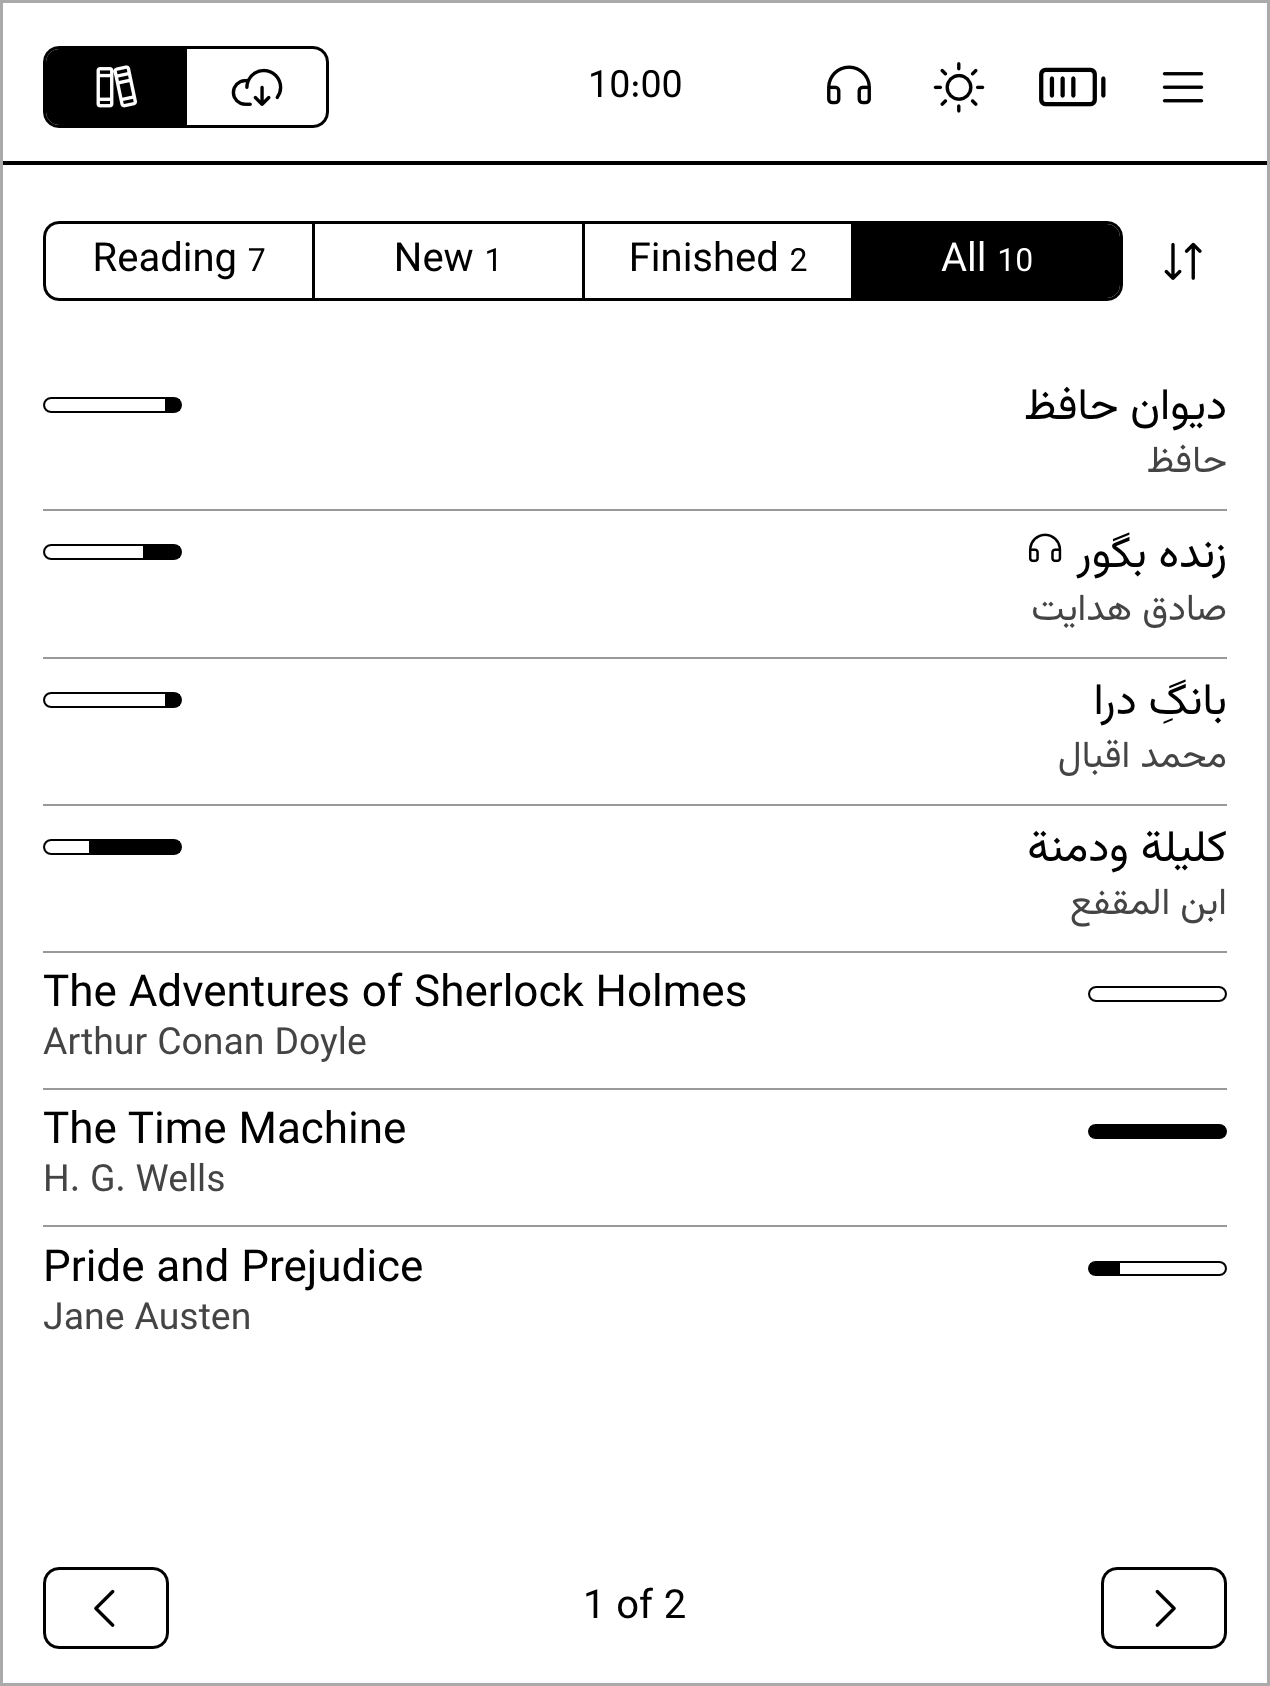
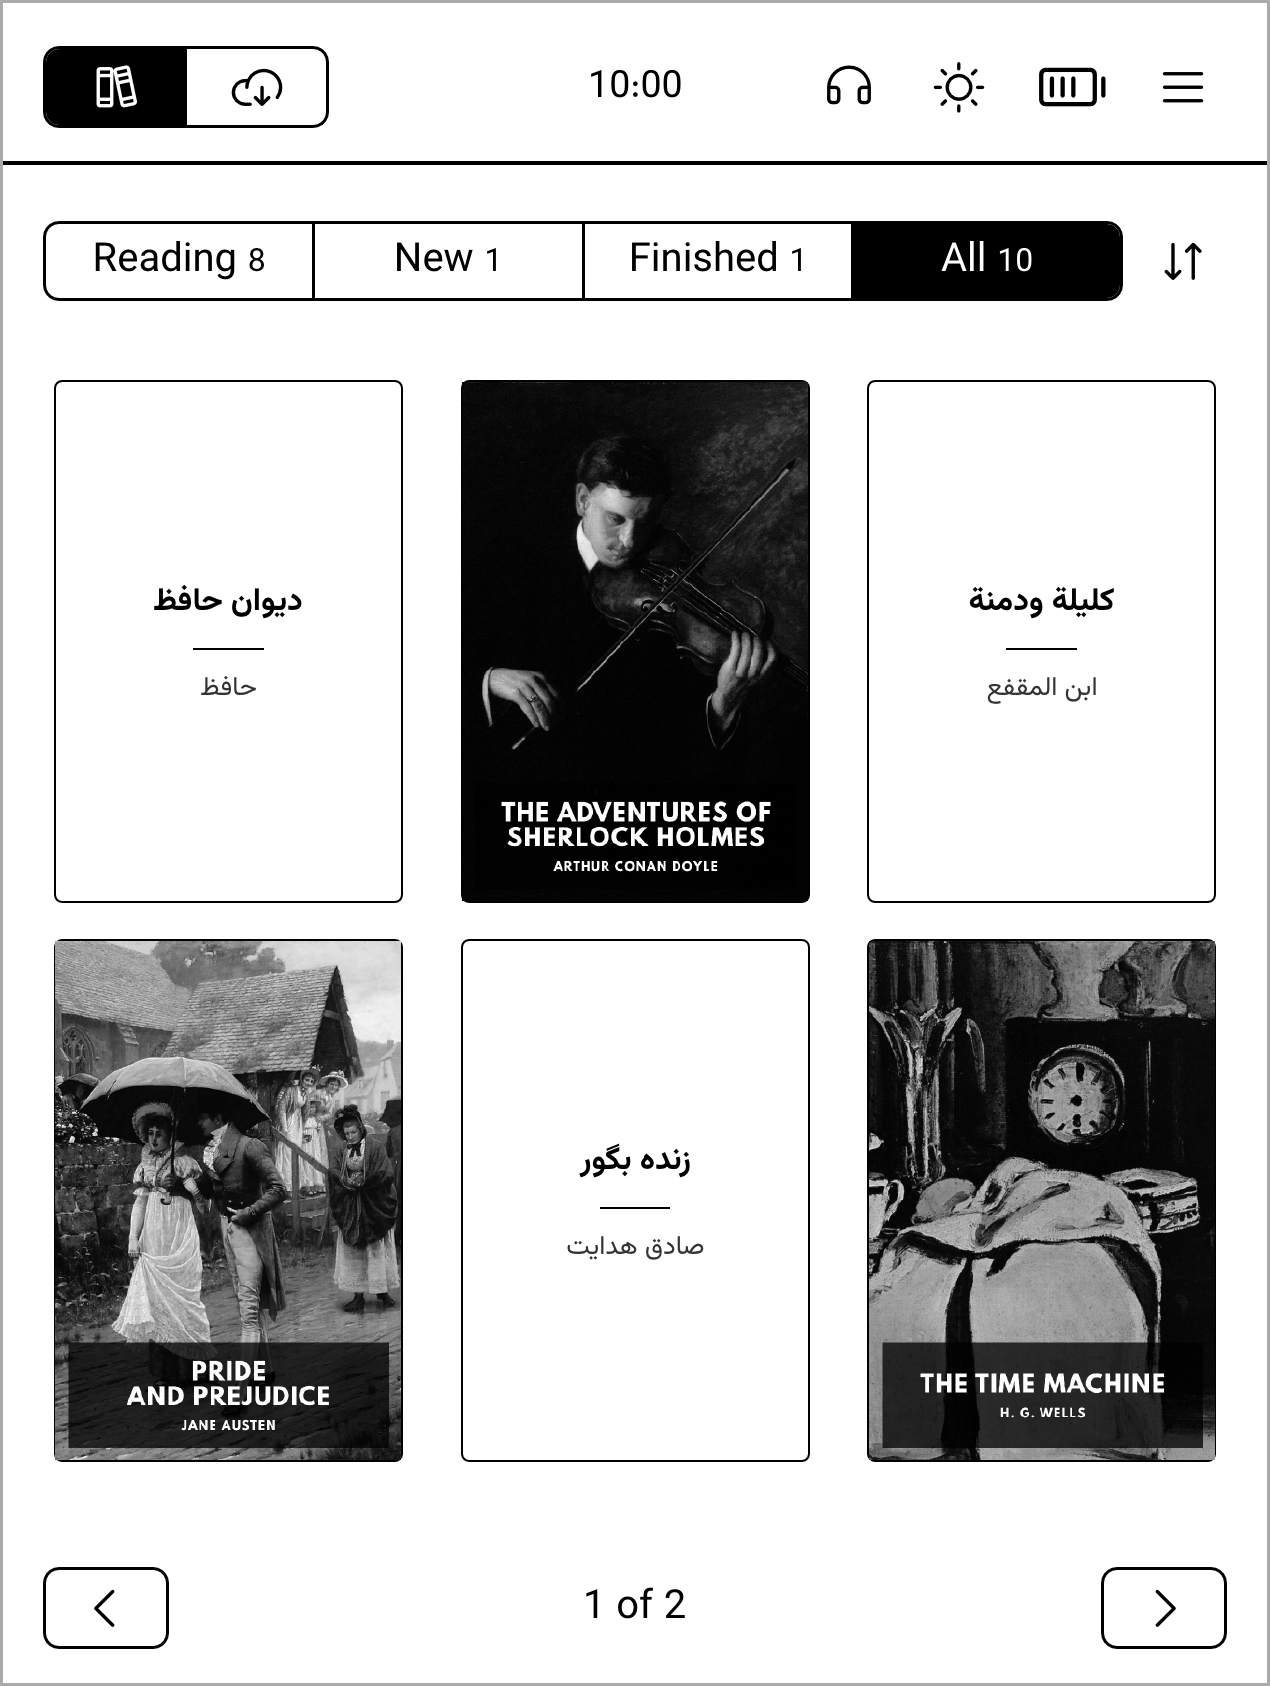
README: the library's screenshot as a shelf of covers, Standard Ebooks' beside Farsi and Arabic books' own
The first page of the tiled library on the simulated Kobo: The Adventures of Sherlock Holmes, Pride and Prejudice and
The Time Machine with their Standard Ebooks covers, alternating with Hafez's Divan, Kalila and Dimna and Buried Alive
shown by their title and author. A line under the screens credits the covers (public domain, CC0). CLAUDE.md: their
covers allowed in that screenshot, with what their site says (checked 2026-11-23).

diff --git a/README.md b/README.md
@@ -15,20 +15,21 @@
 
 <table>
 <tr>
-<th width="25%">Library<br><sub>every language, each row in its own direction</sub></th>
+<th width="25%">Library<br><sub>every language, each book's own cover</sub></th>
 <th width="25%">Farsi<br><sub>adapting to right-to-left books</sub></th>
 <th width="25%">English<br><sub>the bar and the dock open</sub></th>
 <th width="25%">Arabic<br><sub>reading: nothing but the page</sub></th>
 </tr>
 <tr>
-<td valign="top"><img src="docs/images/screen-library.png" alt="The library: Farsi, Urdu and Arabic books, each with how much is read, English books after them"></td>
+<td valign="top"><img src="docs/images/screen-library.png" alt="The library as a shelf of covers: Standard Ebooks' covers of The Adventures of Sherlock Holmes, Pride and Prejudice and The Time Machine beside Farsi and Arabic books shown by their title and author in their own direction"></td>
 <td valign="top"><img src="docs/images/screen-farsi-dock.png" alt="A page of Buried Alive (FarsiEPUB) with the bar and the dock open, laid out right to left in Farsi"></td>
 <td valign="top"><img src="docs/images/screen-english.png" alt="A page of The Adventures of Sherlock Holmes (Standard Ebooks) with the bar and the dock open"></td>
 <td valign="top"><img src="docs/images/screen-arabic.png" alt="A page in Arabic with nothing else on the screen: the chapter's title and its text (our own test book)"></td>
 </tr>
 </table>
 
-<sub>A simulated Kobo Libra Colour. A tap at the top of the page brings the bar and the dock; they go while you read.</sub>
+<sub>A simulated Kobo Libra Colour. A tap at the top of the page brings the bar and the dock; they go while you read.
+The covers are Standard Ebooks' (public domain, CC0); a book without one shows its title and author.</sub>
 
 ## Install
 On a **Kobo** with firmware 5 or newer (Connect tapped), or a jailbroken **Kindle**, plugged into a Mac or Linux computer

diff --git a/CLAUDE.md b/CLAUDE.md
@@ -220,6 +220,10 @@ work goes where it belongs as it is decided.
   domain under CC0 (standardebooks.org, "Standard Ebooks and the public domain", checked 2026-11-21). CC0 waives no
   trademark rights; none claimed on their site, but pages of the text are shown, not their cover or logo, so nothing
   reads as their endorsement. The EPUBs themselves and their text stay out of the repository.
+  **Their covers too (the maintainer, 2026-11-23),** in the README's library screenshot: their site dedicates cover art to
+  the public domain with the rest ("including markup, cover art, and everything in between", checked 2026-11-23) and
+  claims no trademark or credit; the paintings under them are "believed to be in the U.S. public domain". A line under
+  the screenshot says whose covers they are.
 - **The devices by their own names** (the maintainer, 2026-11-22): in what readers see (the README, the docs, the charts,
   the CHANGELOG), "the Kindle" and "Kindle's reader", "the Kindle's own software", as "Kobo's reader"; not "Amazon's".
   Amazon stays only where the company itself is meant (its tools by name, a licence).
